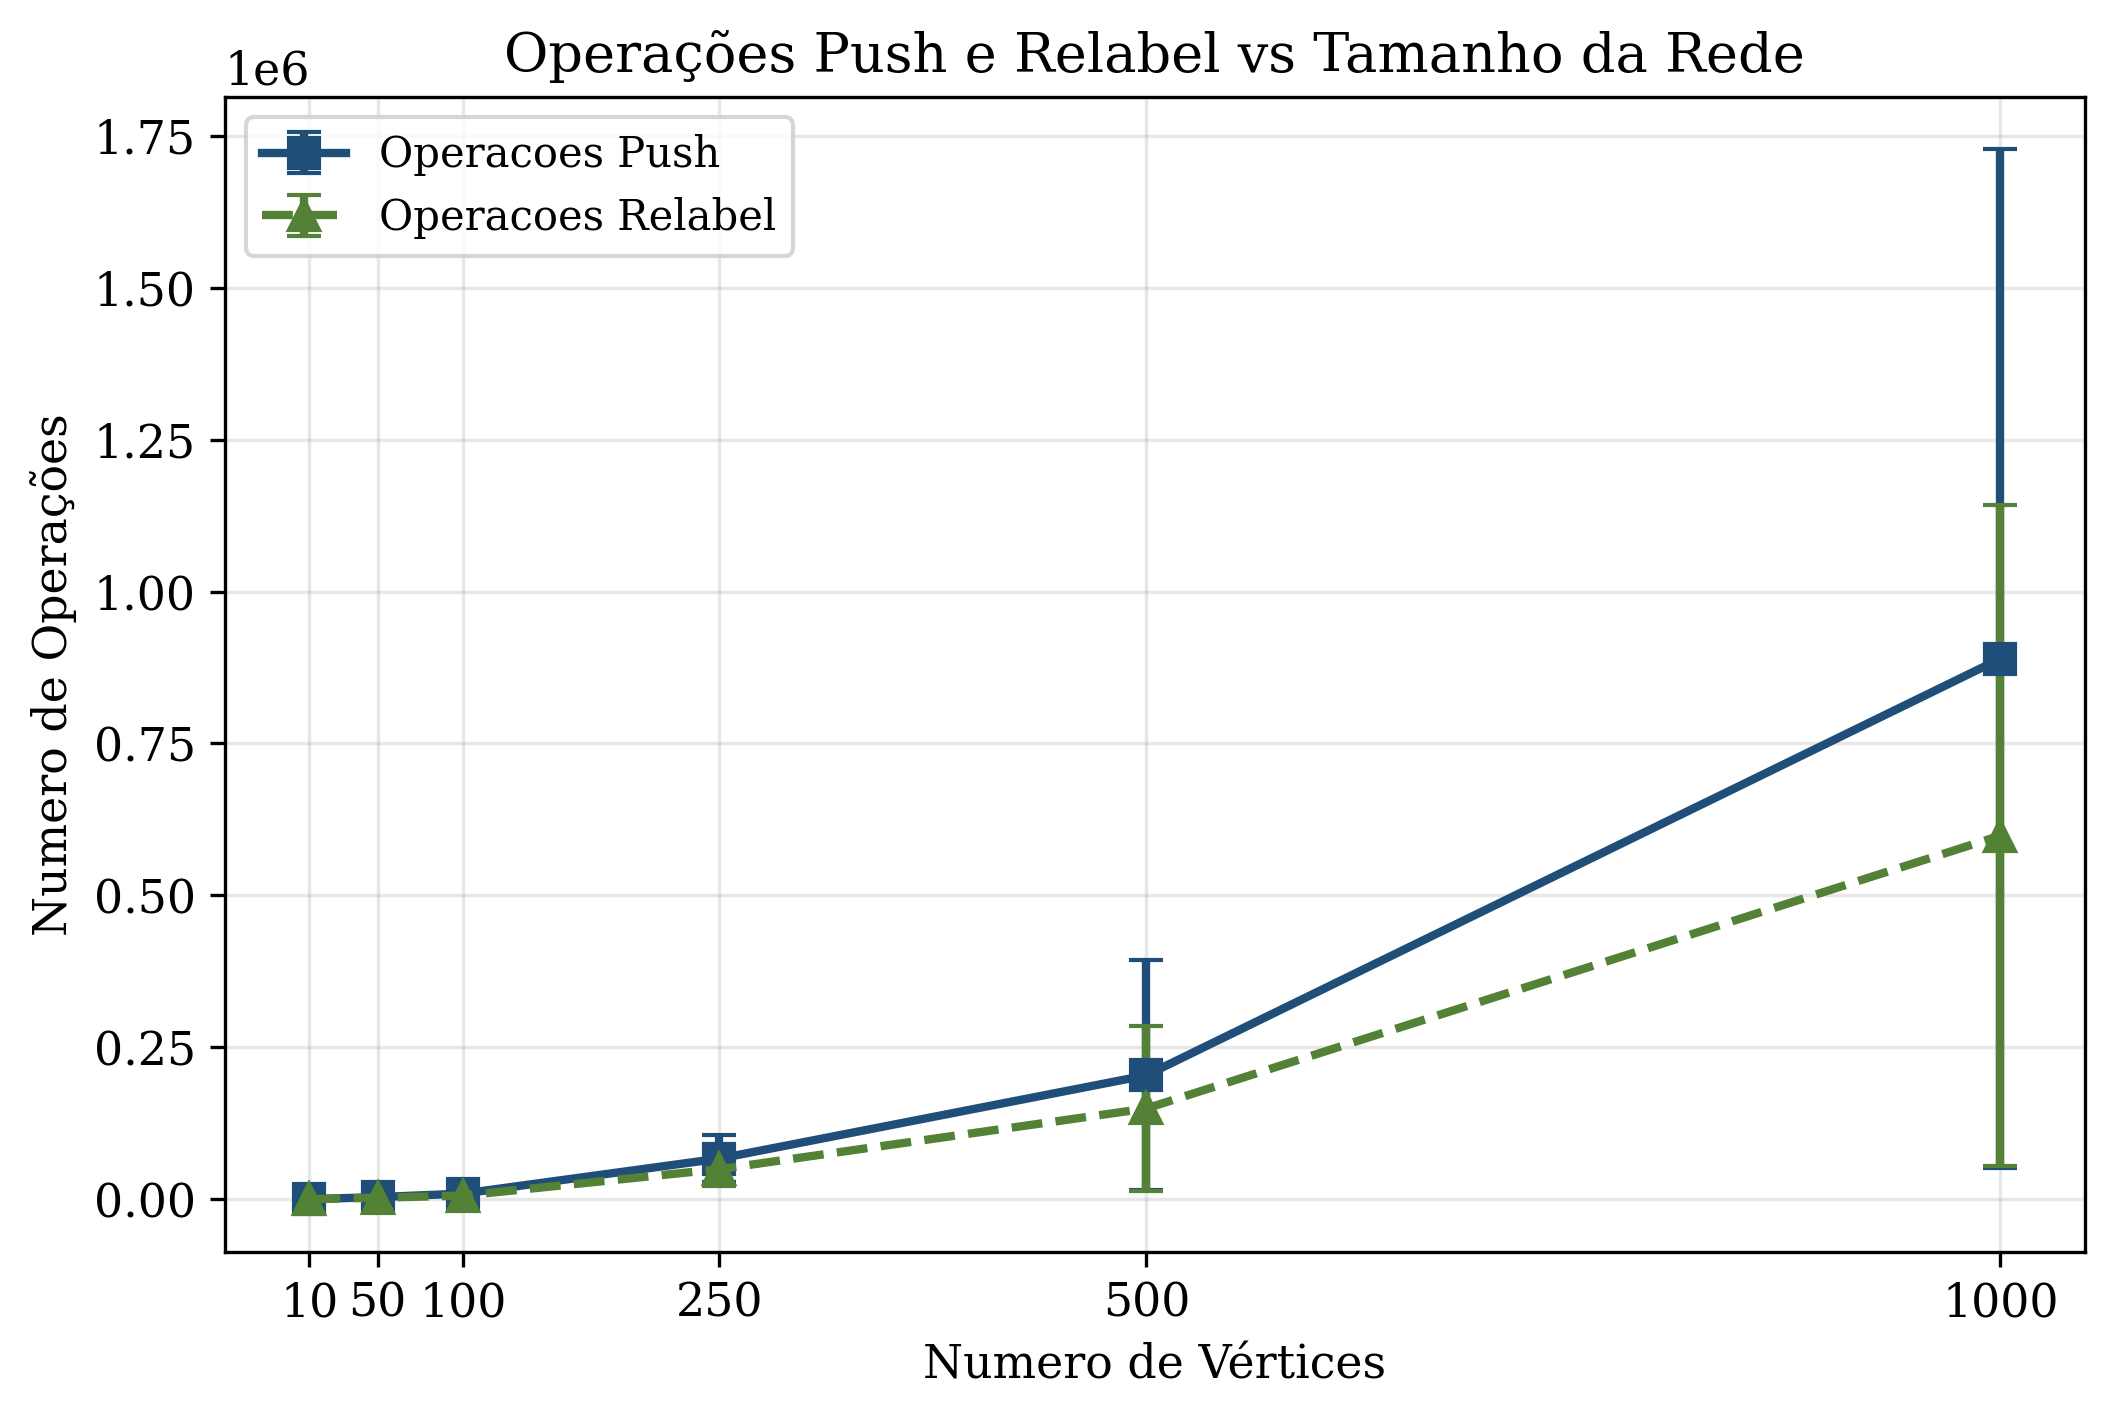
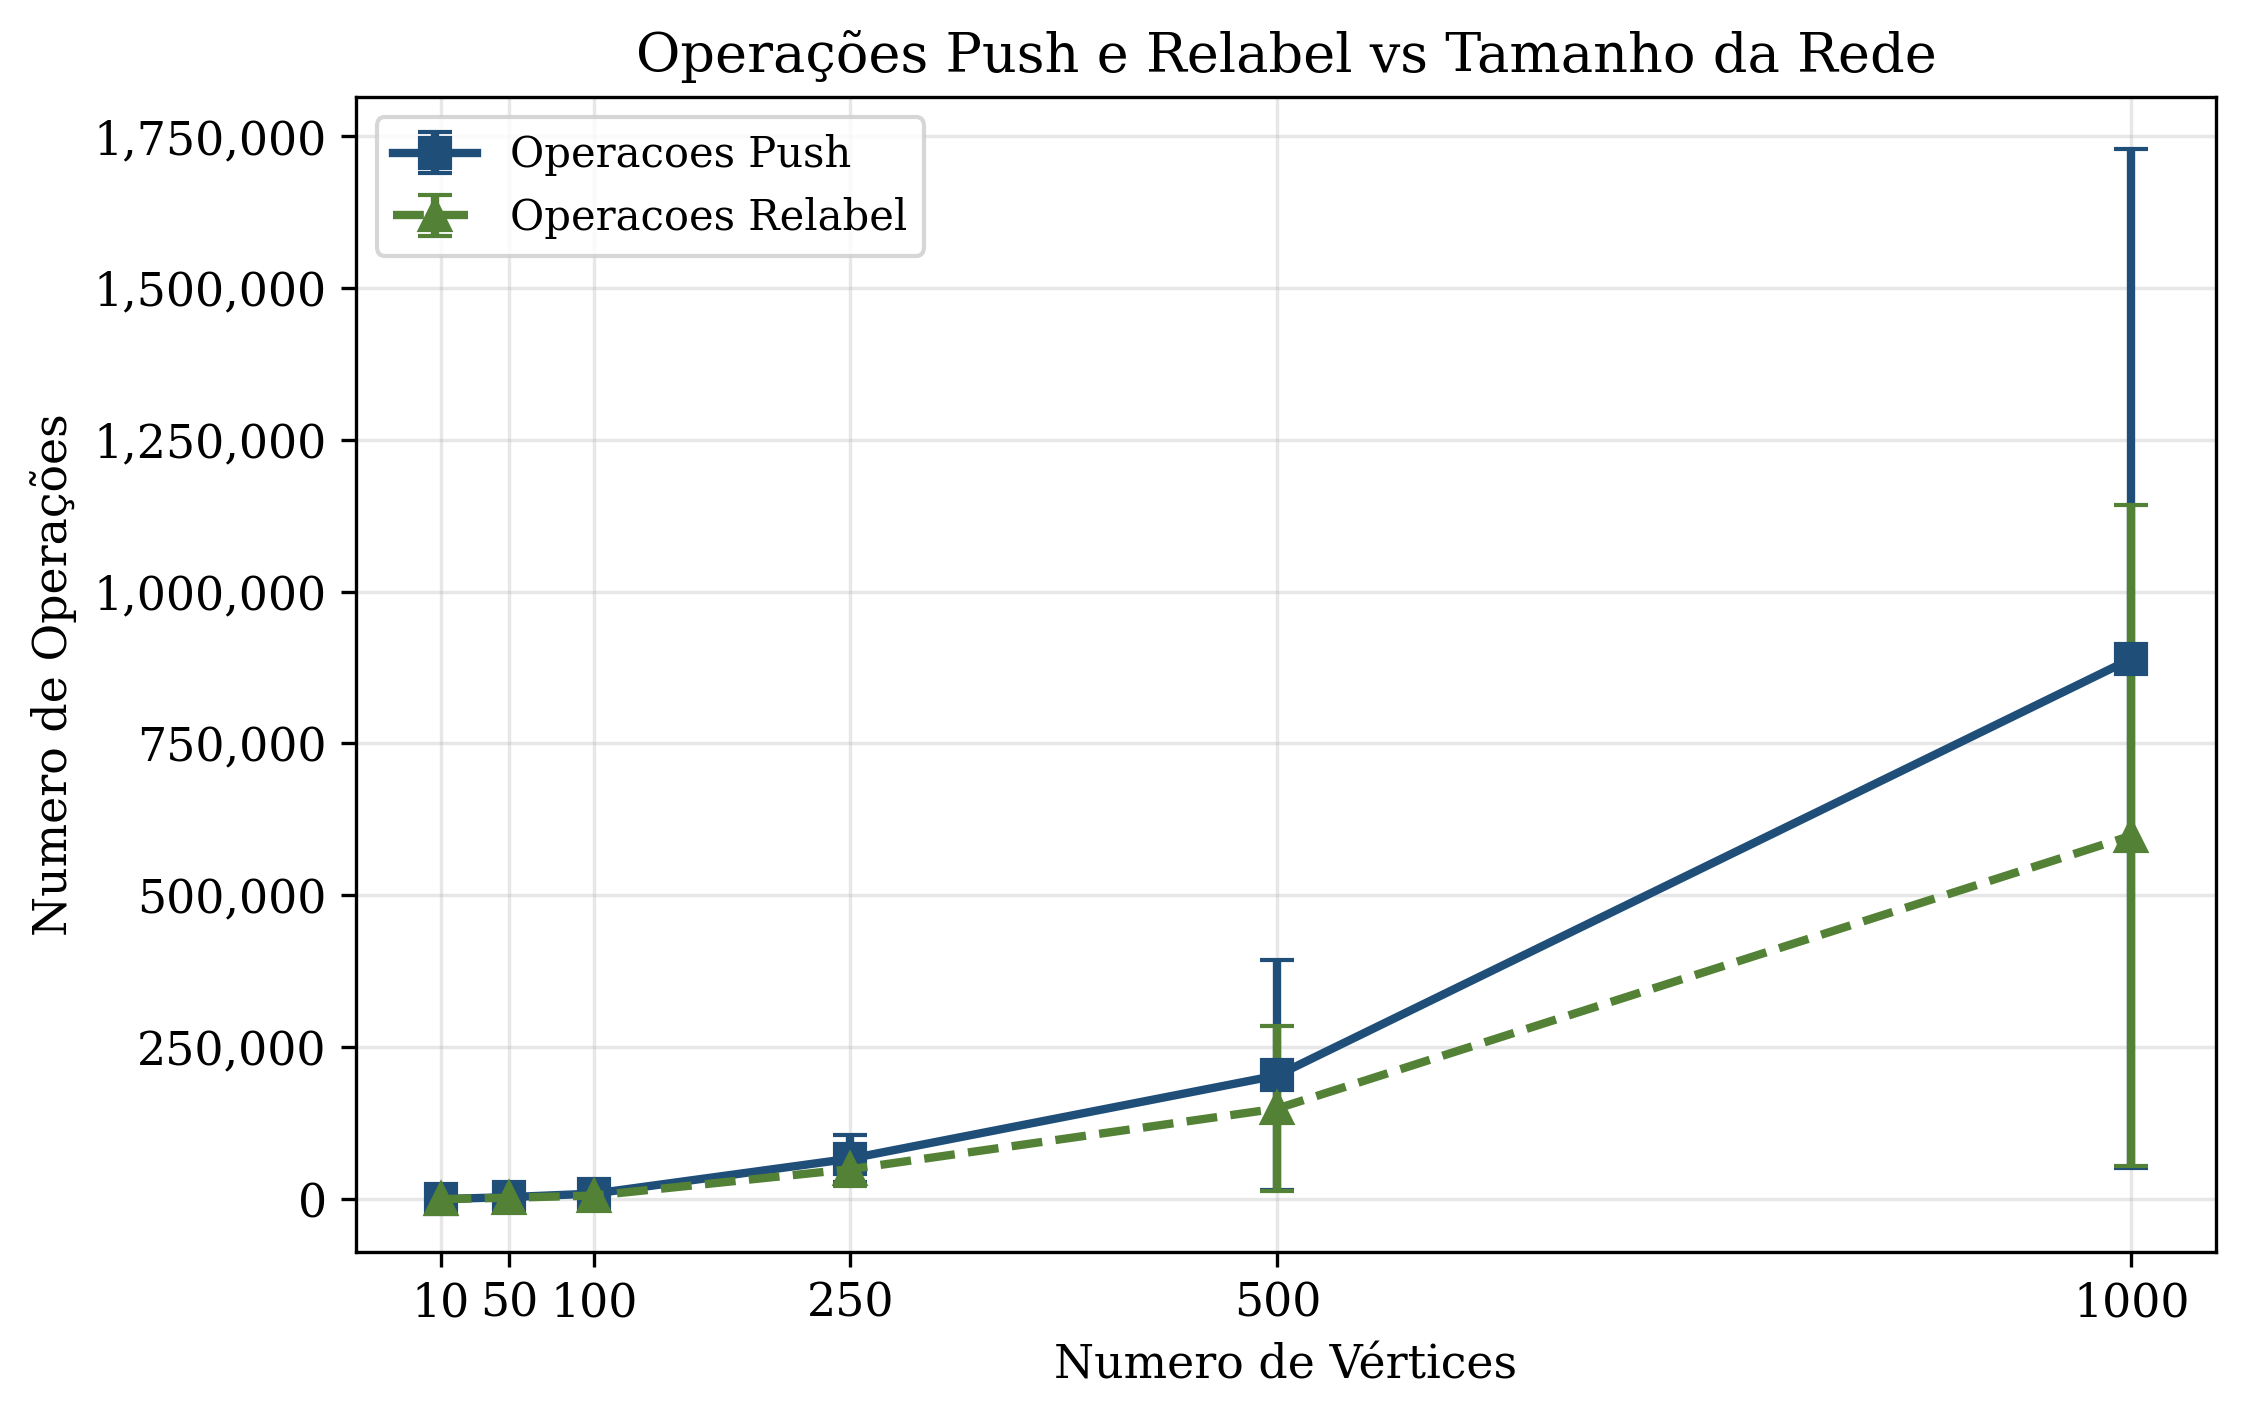
ajustes na visualização

diff --git a/tabela_densidade.tex b/tabela_densidade.tex
@@ -5,12 +5,12 @@
 \toprule
 Densidade & Rep. & Arestas (aprox.) & Fluxo Max. (media) & Tempo (ms) & Push (media) & Relabel (media) & Gargalos (media) \\
 \midrule
-0.1 & 7 & 990 & 451.7 & 23.354 +/- 20.955 & 7445 +/- 6695 & 5423 +/- 4876 & 8.3 \\
-0.2 & 7 & 1980 & 821.3 & 41.294 +/- 37.222 & 8611 +/- 7857 & 5537 +/- 4998 & 14.9 \\
-0.3 & 15 & 2970 & 1420.1 & 53.512 +/- 49.862 & 6899 +/- 6445 & 5234 +/- 4892 & 28.5 \\
-0.5 & 7 & 4950 & 2417.7 & 119.788 +/- 79.418 & 11760 +/- 8217 & 6994 +/- 4652 & 47.7 \\
-0.7 & 7 & 6930 & 3310.2 & 164.412 +/- 108.906 & 11400 +/- 8006 & 7019 +/- 4673 & 67.6 \\
-1.0 & 15 & 9900 & 4828.9 & 113.385 +/- 154.622 & 6262 +/- 8158 & 3385 +/- 4686 & 99.0 \\
+0.1 & 7 & 990 & 451.7 & 23.454 +/- 21.024 & 7445 +/- 6695 & 5423 +/- 4876 & 8.3 \\
+0.2 & 7 & 1980 & 821.3 & 40.986 +/- 36.943 & 8611 +/- 7857 & 5537 +/- 4998 & 14.9 \\
+0.3 & 15 & 2970 & 1420.1 & 54.230 +/- 50.516 & 6899 +/- 6445 & 5234 +/- 4892 & 28.5 \\
+0.5 & 7 & 4950 & 2417.7 & 123.879 +/- 82.101 & 11760 +/- 8217 & 6994 +/- 4652 & 47.7 \\
+0.7 & 7 & 6930 & 3310.2 & 169.716 +/- 112.911 & 11400 +/- 8006 & 7019 +/- 4673 & 67.6 \\
+1.0 & 15 & 9900 & 4828.9 & 116.753 +/- 158.246 & 6262 +/- 8158 & 3385 +/- 4686 & 99.0 \\
 \bottomrule
 \end{tabular}
 \end{table}

diff --git a/tabela_escalabilidade.tex b/tabela_escalabilidade.tex
@@ -5,12 +5,12 @@
 \toprule
 Vertices & Arestas (aprox.) & Fluxo Max. (media) & Tempo (ms) & Push (media) & Relabel (media) & Gargalos (media) \\
 \midrule
-10 & 27 & 153.4 & 0.045 +/- 0.030 & 25 +/- 16 & 20 +/- 14 & 3.6 \\
-50 & 735 & 733.5 & 13.173 +/- 0.336 & 3334 +/- 294 & 2320 +/- 6 & 13.8 \\
-100 & 2970 & 1312.4 & 64.291 +/- 57.279 & 9167 +/- 8125 & 5851 +/- 5177 & 27.2 \\
-250 & 18675 & 3728.7 & 1284.261 +/- 711.953 & 66742 +/- 38442 & 49332 +/- 27316 & 74.2 \\
-500 & 74850 & 6949.6 & 12616.007 +/- 11462.766 & 203762 +/- 189081 & 149193 +/- 135325 & 143.6 \\
-1000 & 299700 & 14046.0 & 144794.339 +/- 131743.084 & 889486 +/- 838771 & 598351 +/- 544412 & 288.0 \\
+10 & 27 & 153.4 & 0.044 +/- 0.026 & 25 +/- 16 & 20 +/- 14 & 3.6 \\
+50 & 735 & 733.5 & 13.040 +/- 0.455 & 3334 +/- 294 & 2320 +/- 6 & 13.8 \\
+100 & 2970 & 1312.4 & 61.004 +/- 53.872 & 9167 +/- 8125 & 5851 +/- 5177 & 27.2 \\
+250 & 18675 & 3728.7 & 1573.684 +/- 879.800 & 66742 +/- 38442 & 49332 +/- 27316 & 74.2 \\
+500 & 74850 & 6949.6 & 13642.189 +/- 12385.280 & 203762 +/- 189081 & 149193 +/- 135325 & 143.6 \\
+1000 & 299700 & 14046.0 & 144338.993 +/- 131333.650 & 889486 +/- 838771 & 598351 +/- 544412 & 288.0 \\
 \bottomrule
 \end{tabular}
 \end{table}

diff --git a/visualizations.py b/visualizations.py
@@ -197,6 +197,7 @@ def grafico_tempo_vs_vertices(resultados: List[Dict]) -> None:
     ax.legend()
     ax.set_xticks(vertices)
     ax.set_xticklabels([str(v) for v in vertices])
+    ax.yaxis.set_major_formatter(plt.FuncFormatter(lambda x, _: f"{x:.1f}"))
 
     _salvar(fig, "grafico_tempo_vertices")
 
@@ -231,6 +232,7 @@ def grafico_operacoes_vs_vertices(resultados: List[Dict]) -> None:
     ax.legend()
     ax.set_xticks(vertices)
     ax.set_xticklabels([str(v) for v in vertices])
+    ax.yaxis.set_major_formatter(plt.FuncFormatter(lambda x, _: f"{int(x):,}"))
 
     _salvar(fig, "grafico_operacoes")
 